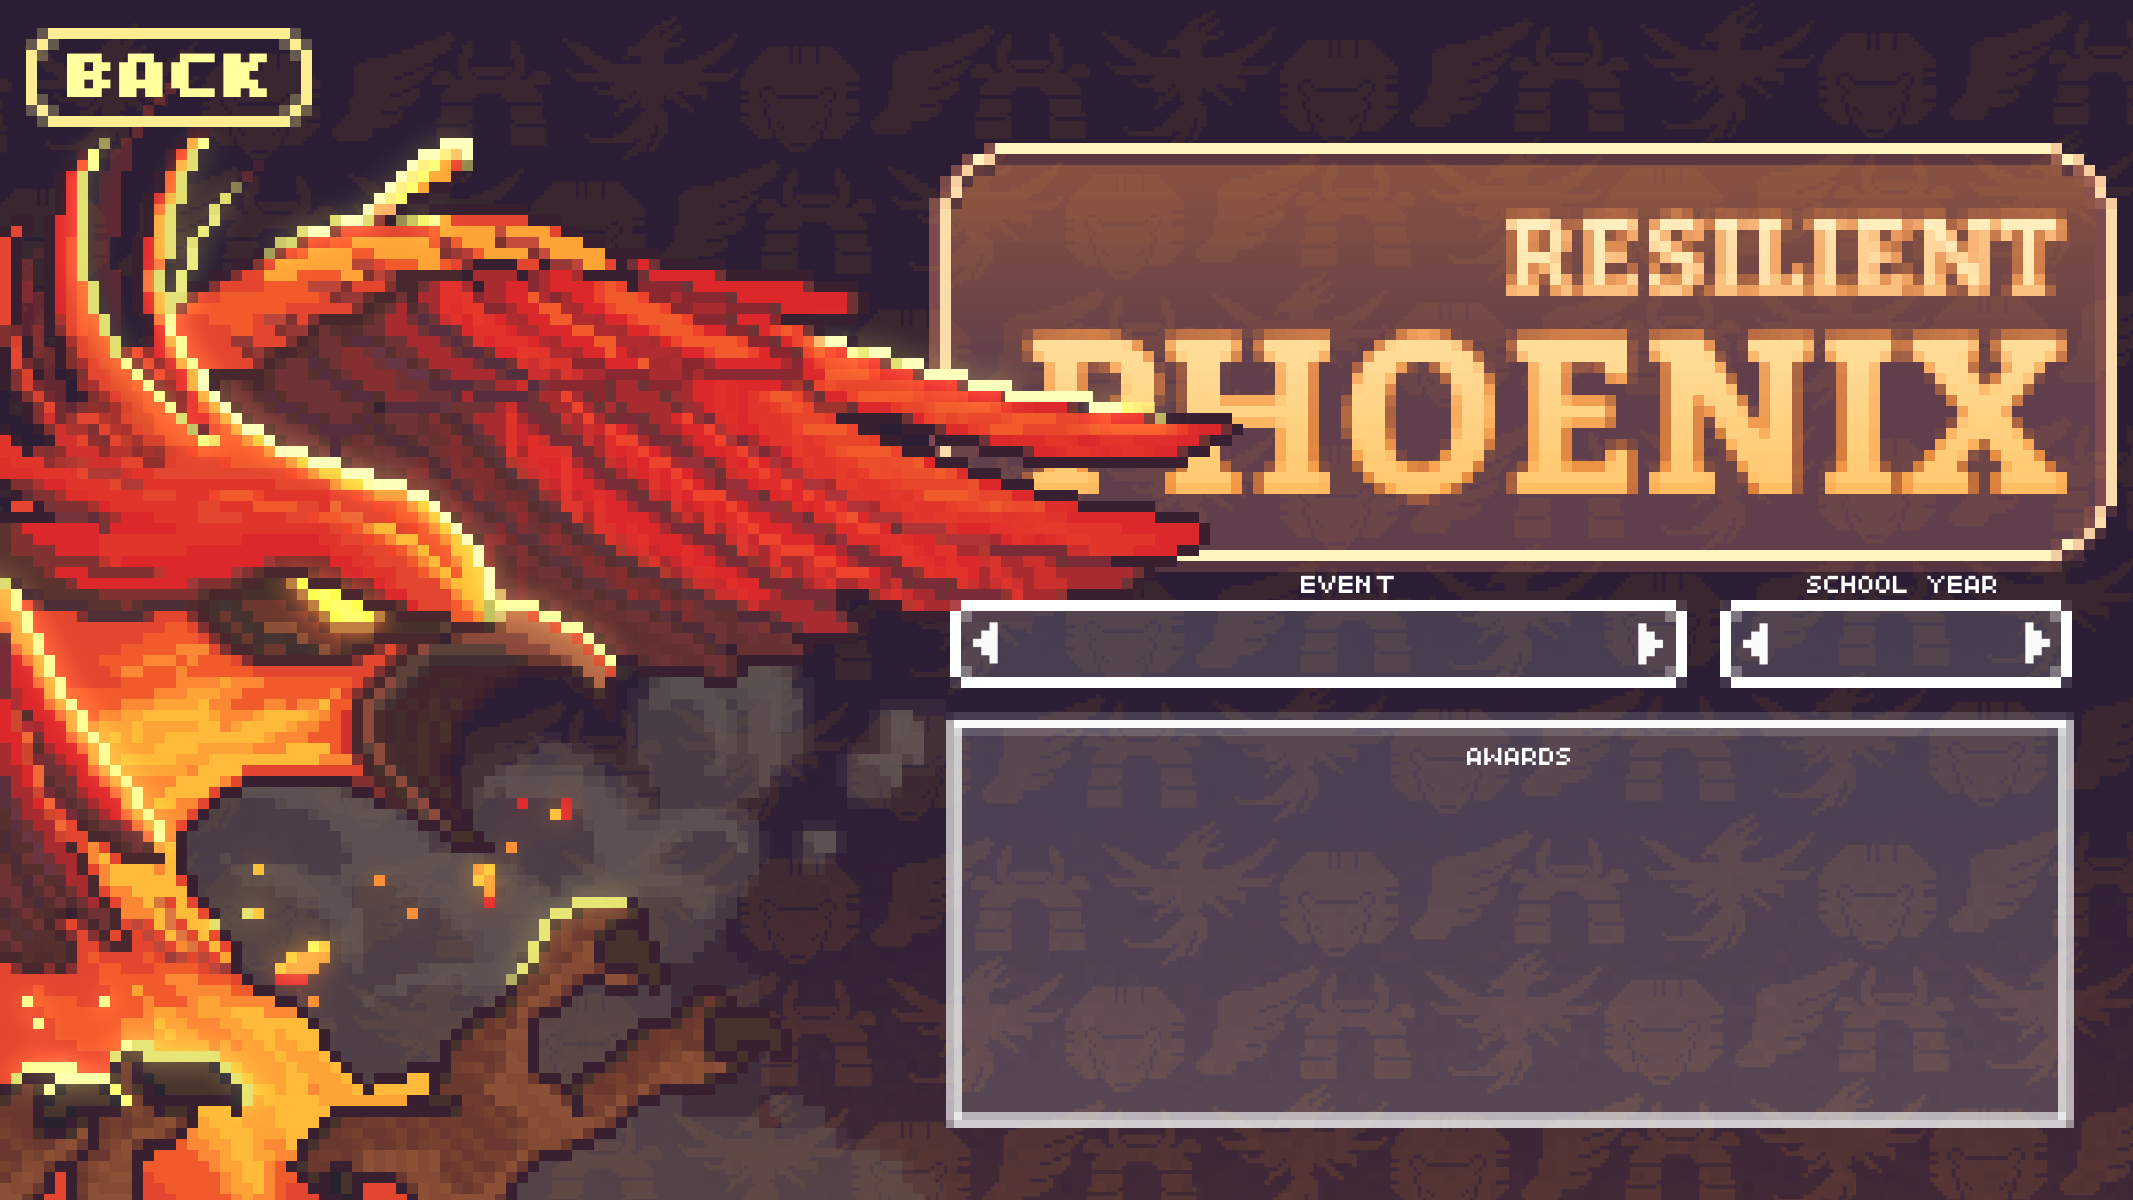
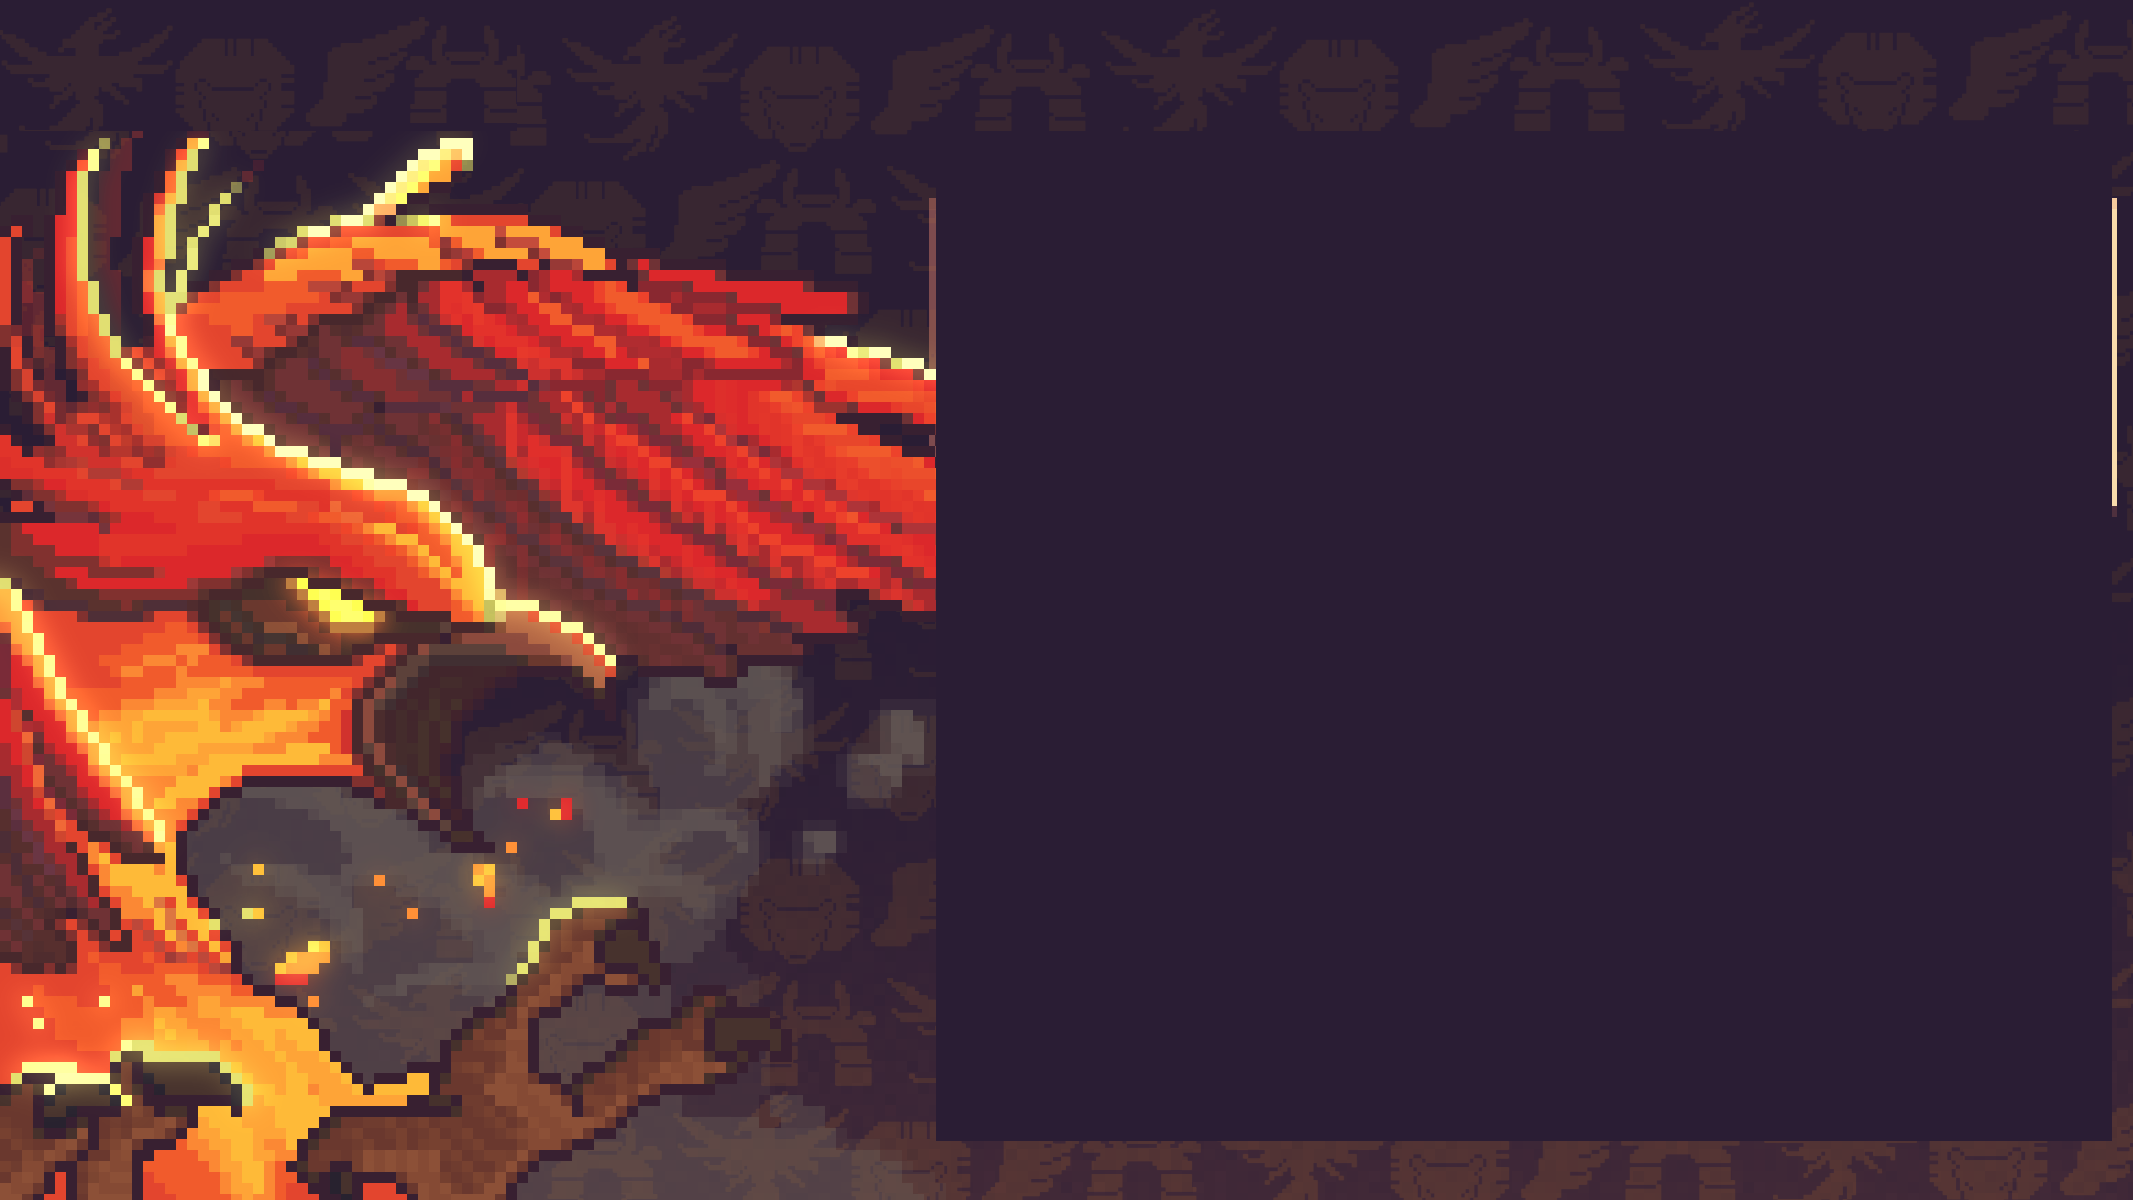
layout for empire page

diff --git a/src/Pages/Empire.jsx b/src/Pages/Empire.jsx
@@ -75,46 +75,45 @@ const Empire = () => {
     };
 
     var divStyle = {
-        backgroundImage: 'url(' + empire.backgroundHistoryImage + ')',
-        backgroundSize: "contain",
-        display: "flex",
-        backgroundRepeat: "no-repeat"
-
+        backgroundImage: 'url(' + empire.backgroundHistoryImage + ')'
     };
 
     return (
         <div className="App">
+            <Navbar />
+            <div className="games_container" >
             {(config && year && event) ?
-                <div className="empire-content" style={divStyle}>
-                    <Navbar />
-                    <div>{empire.name}</div>
-                    <div>{empire.id}</div>
+                <div className="empire_content" style={divStyle}>
+                    <div className='topSpacer' />
+                    <div className="empire_name_box">
+                        <img className="empire_name_img" src={empire.nameImage} alt={empire.name}/>
+                    </div>
+                    <div className="event_select_box">
+                        <label>
+                            Years:
+                            <select value={year} onChange={handleChangeYear}>
+                                {years.map((year) => (
+                                    <option key={year.year} value={year.year}>{year.year}</option>
+                                ))}
+                            </select>
+                        </label>
 
-                    <label>
-                        Years:
-                        <select value={year} onChange={handleChangeYear}>
-                            {years.map((year) => (
-                                <option key={year.year} value={year.year}>{year.year}</option>
-                            ))}
-                        </select>
-                    </label>
-
-                    <label>
-                        Events:
-                        <select value={event} onChange={handleChangeEvent}>
-                            {events.map((evnt) => (
-                                <option key={evnt.id} value={evnt.id}>{evnt.name}</option>
-                            ))}
-                        </select>
-                    </label>
-
-                    <div>
+                        <label>
+                            Events:
+                            <select value={event} onChange={handleChangeEvent}>
+                                {events.map((evnt) => (
+                                    <option key={evnt.id} value={evnt.id}>{evnt.name}</option>
+                                ))}
+                            </select>
+                        </label>
+                    </div>
+                    <div className="empire_awards_box">
                         <Markdown>{awards}</Markdown>
                     </div>
-
                 </div>
                 : <div><img alt="Loading..." src={loader}></img></div>
             }
+            </div>
         </div>
     );
 };

diff --git a/src/Pages/Empire.css b/src/Pages/Empire.css
@@ -1,6 +1,50 @@
-.empire-content {
+.empire_content {
     width: 100%;
     height: 100vh;
     display: flex;
+    flex-wrap: nowrap;
+    flex-direction: column;
+    background-size: cover;
+    padding-top: 10px;
+    position: absolute;
+    overflow-x: hidden;
+    align-items: center;
+    top: 0;
 }
 
+.empire_name_box{
+    width: 80%;
+    min-width: 200px;
+    max-width: 400px;
+    max-height: 90px;
+    border: red solid 1px; 
+    padding: 20px;
+}
+
+.empire_name_img {
+    width: 100%;   
+}
+
+.event_select_box{
+    width: 80%;
+    min-width: 200px;
+    max-width: 400px;
+    max-height: 90px;
+    border: red solid 1px; 
+    padding: 20px;
+}
+
+.empire_awards_box{
+    width: 80%;
+    min-width: 200px;
+    max-width: 400px;
+    min-height: 400px;
+    max-height: 500px;
+    border: red solid 1px; 
+    padding: 20px;
+    overflow: hidden;
+    color: white;
+    text-align: left;
+    background-color: #282c34;
+    background: linear-gradient(0deg, rgba(40,44,52,1) 0%, rgba(17,0,32,.5) 100%);
+}

diff --git a/src/Pages/GameScores.jsx b/src/Pages/GameScores.jsx
@@ -109,8 +109,8 @@ const GameScores = () => {
                 {config ?
                     <div className="gamescores_content" style={divStyle}>
                         <div className='topSpacer' />
-                        <div className='box_preheader' ></div>
-                        <div className='box_header' >
+                        <div className='gamescores_box_preheader' ></div>
+                        <div className='gamescores_box_header' >
                             <div className="game_name">{game.name}</div>
                         </div>
                         {
@@ -129,7 +129,7 @@ const GameScores = () => {
                                 </div>
                             )
                         }
-                        <div className='box_footer' ></div>
+                        <div className='gamescores_box_footer' ></div>
 
                     </div>
 

diff --git a/src/constants.js b/src/constants.js
@@ -28,24 +28,28 @@ export const empires = {
         name: "Chimera",
         backgroundImage: bgChimera,
         backgroundHistoryImage: bgHistoryChimera,
+        nameImage: img_Chimera
     },
     "pegasus" :  {
         id: "pegasus",
         name: "Pegasus",
         backgroundImage: bgPegasus,
         backgroundHistoryImage: bgHistoryPegasus,
+        nameImage: img_Pegasus
     },
     "phoenix" : {
         id: "phoenix",
         name: "Phoenix",
         backgroundImage: bgPhoenix,
         backgroundHistoryImage: bgHistoryPhoenix,
+        nameImage: img_Pheonix
     },
     "shinobi" : {
         id: "shinobi",
         name: "Shinobi",
         backgroundImage: bgShinobi,
         backgroundHistoryImage: bgHistoryShinobi,
+        nameImage: img_Shinobi
     }
 }
 

diff --git a/src/Pages/GameScores.css b/src/Pages/GameScores.css
@@ -13,14 +13,14 @@
     
 }
 
-.box_preheader{
+.gamescores_box_preheader{
     width: 80%;
     min-width: 100px;
     max-width: 400px;
     border-top: 4px solid white;
 }
 
-.box_header {
+.gamescores_box_header {
     width: 80%;
     min-width: 100px;
     max-width: 400px;
@@ -33,7 +33,7 @@
     padding-bottom: 20px;
 }
 
-.box_footer{
+.gamescores_box_footer{
     width: 80%;
     min-width: 100px;
     max-width: 400px;

diff --git a/src/Navbar.js b/src/Navbar.js
@@ -7,6 +7,7 @@ const Navbar = () => {
   
   <nav>
     <NavLink to="/">Home</NavLink>
+    <NavLink to="/games">Games</NavLink>
     <NavLink to="/admin">Admin</NavLink>
   </nav>
 
